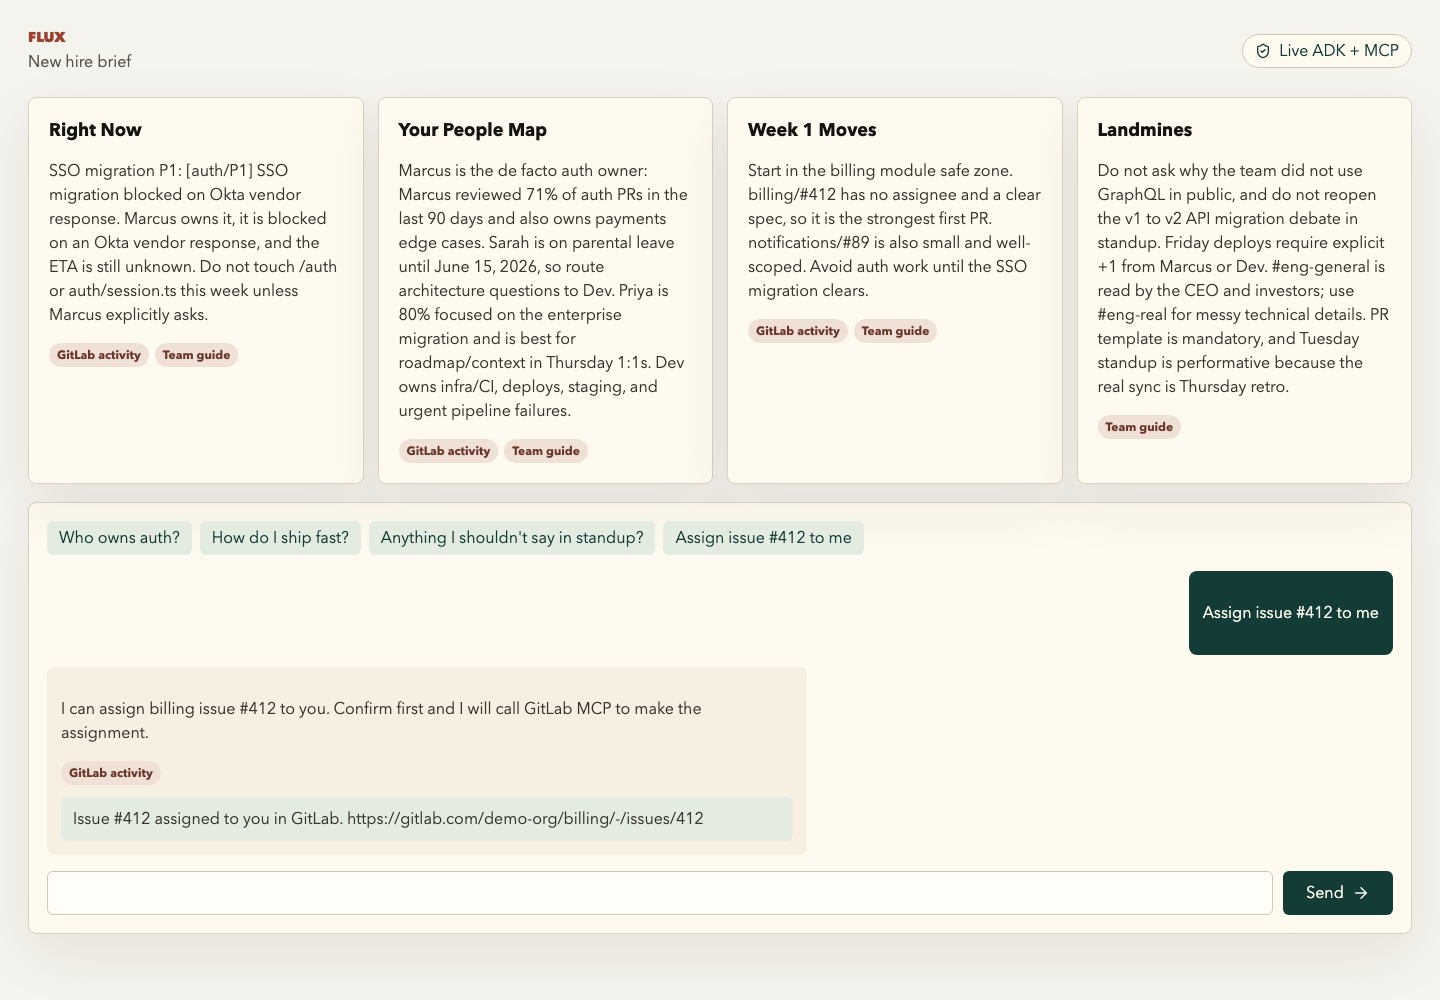
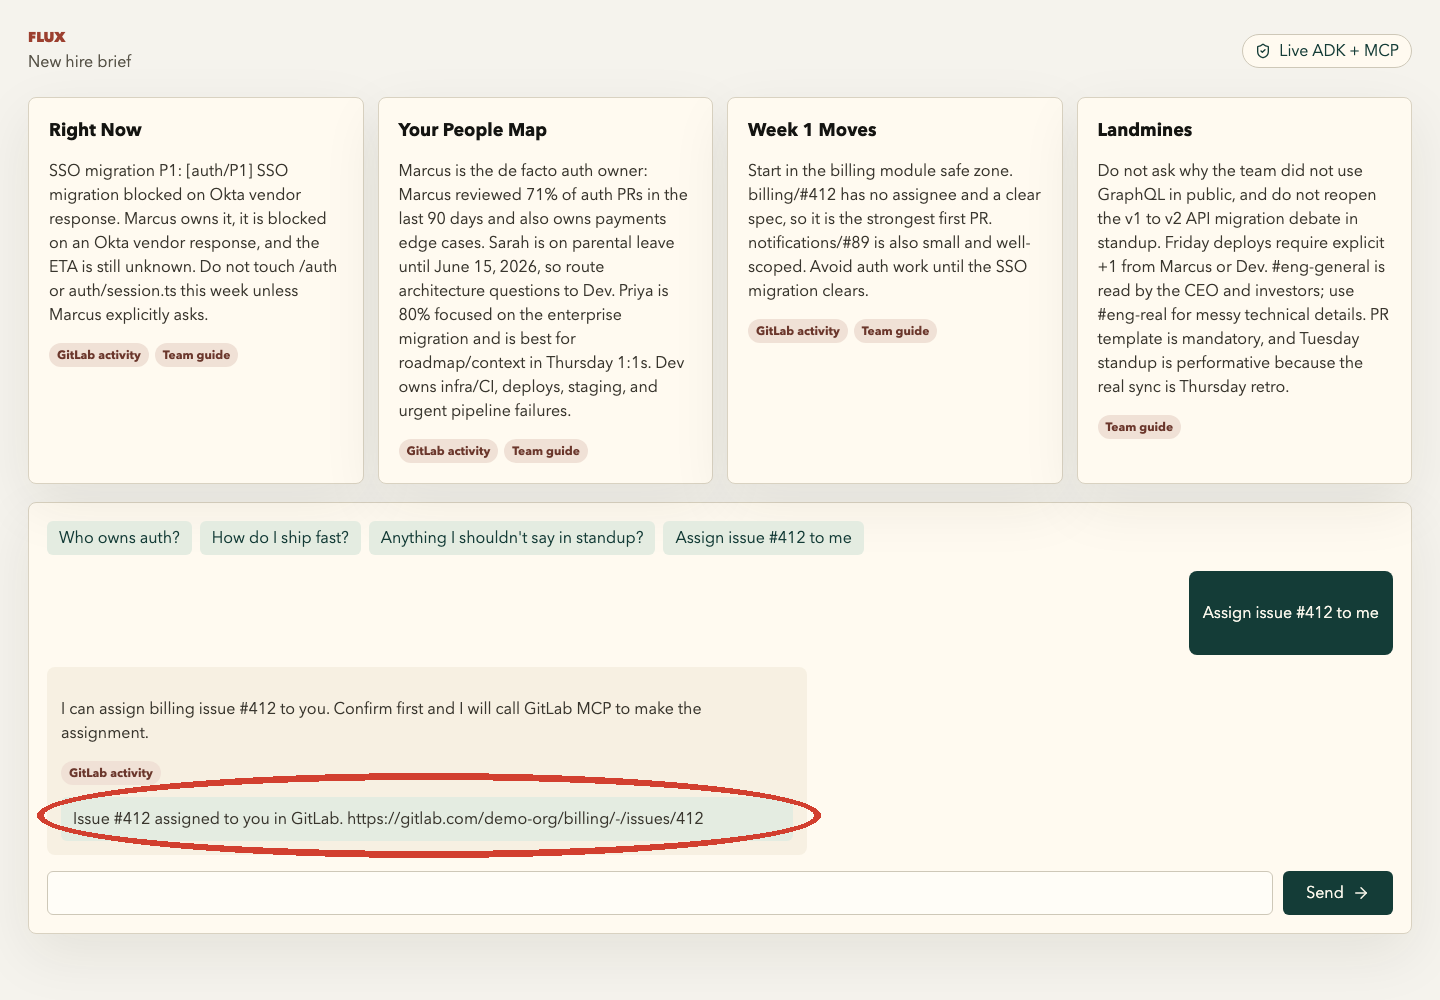
docs: tighten screenshot story

Changed region(s): [[0.0312, 0.775, 0.5625, 0.837], [0.0625, 0.837, 0.5312, 0.868]]

diff --git a/README.md b/README.md
@@ -46,13 +46,13 @@ From the new hire's point of view, Flux is a single link. Behind the scenes, it 
 
 ### Setup With Demo Data
 
-Flux states that it is using deployed demo data.
+Provision a new hire in one click and reveal a dynamic onboarding journey that changes as the team, work, and risks change.
 
-![Flux setup page showing deployed demo data note](docs/screenshots/setup-demo-data.png)
+![Flux setup page provisioning a new-hire journey](docs/screenshots/setup-demo-data.png)
 
 ### New-Hire Brief
 
-The generated brief tells the Marcus/auth/SSO story, safe first issues, people map, and unwritten rules.
+The generated brief turns live engineering activity and team context into a grounded first-day map: what is active, who owns what, where to start, and what to avoid.
 
 ![Flux new-hire brief with right-now, people map, week-one moves, and landmines](docs/screenshots/new-hire-brief.png)
 
